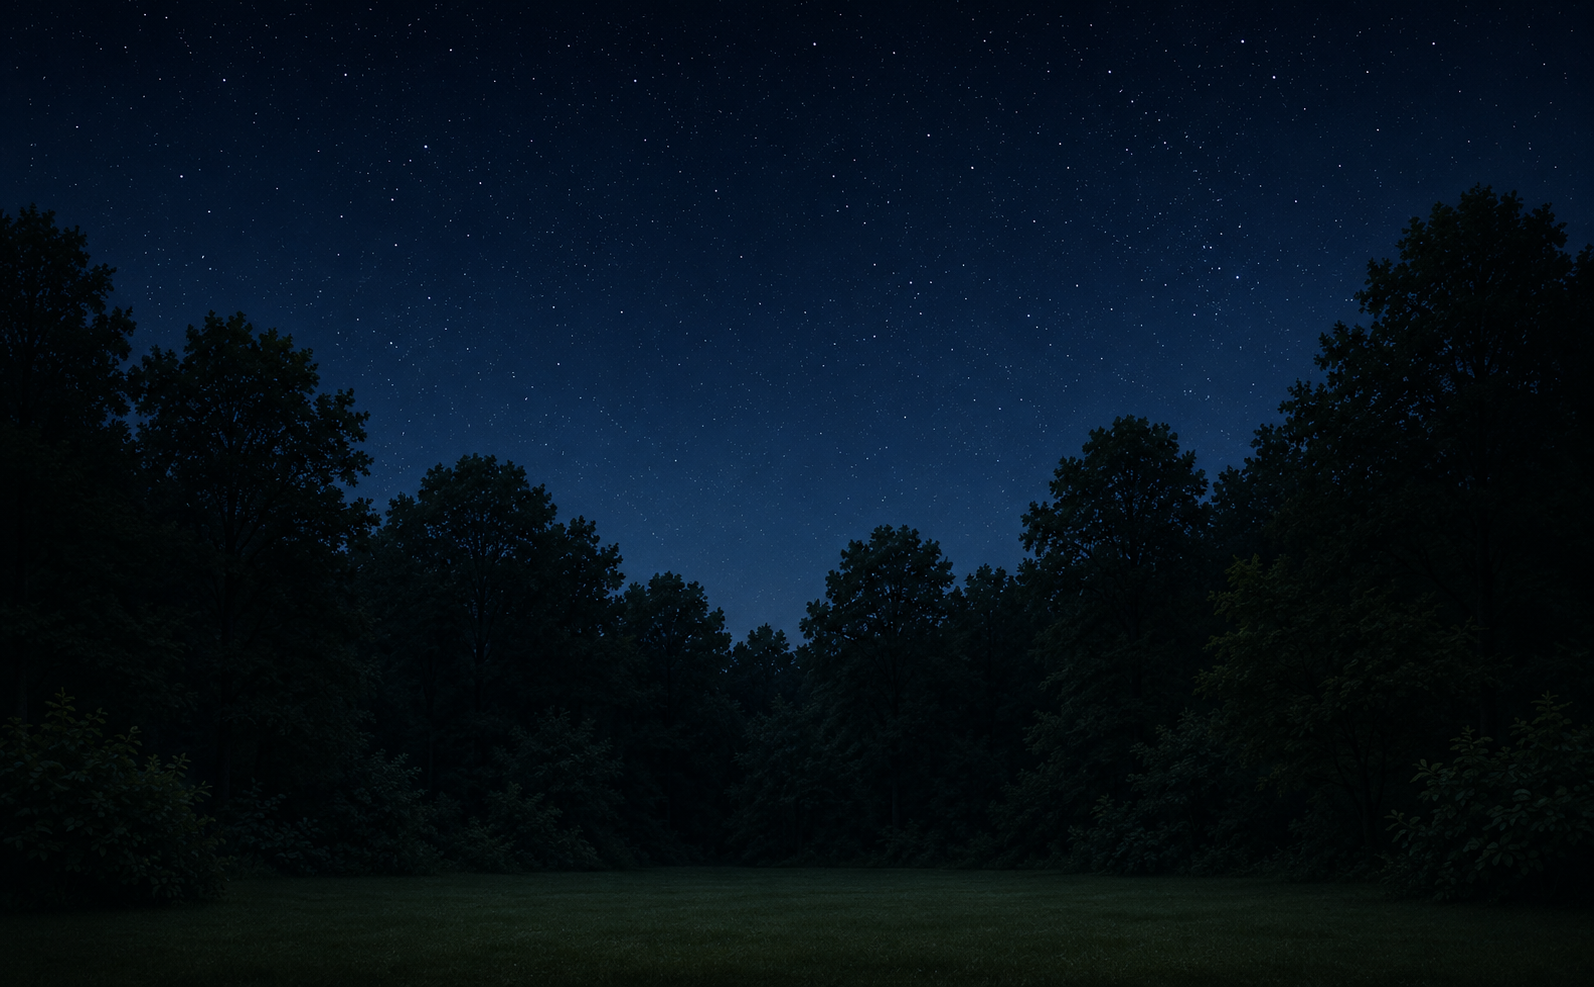
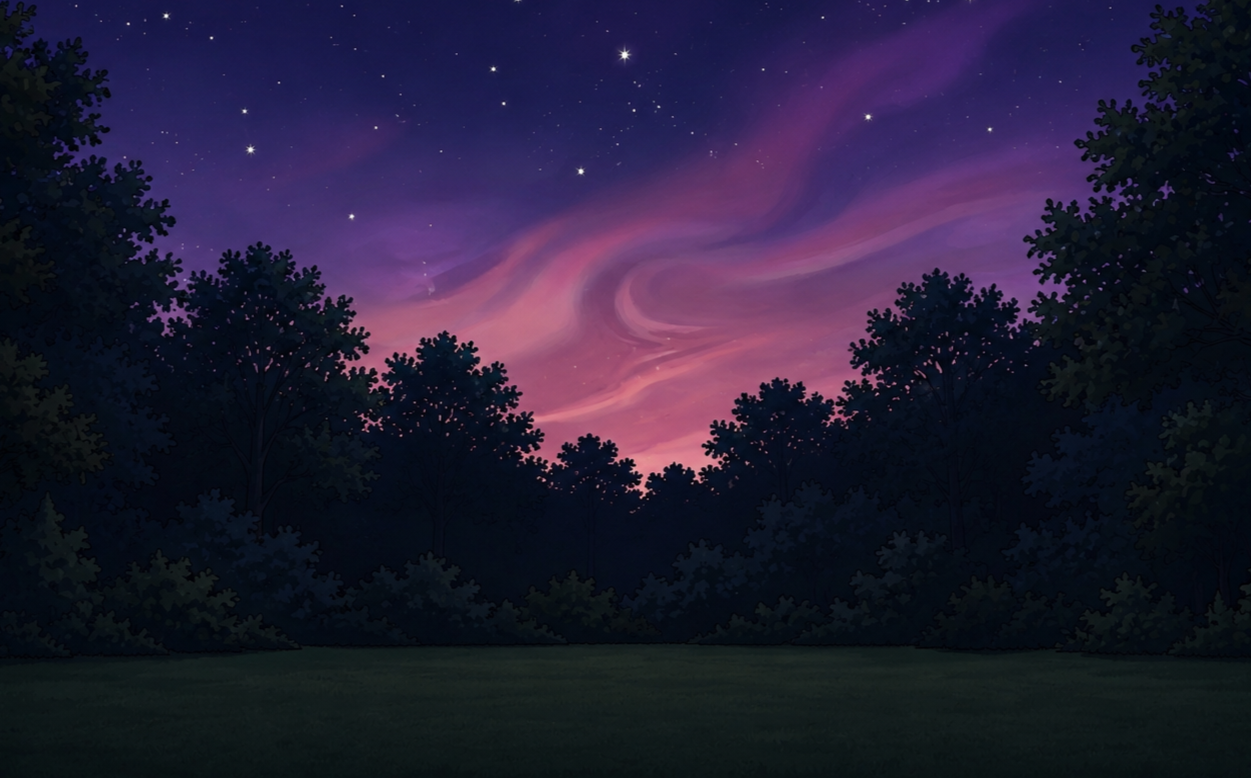
bg test1

diff --git a/frontend/src/App.jsx b/frontend/src/App.jsx
@@ -1,5 +1,11 @@
 import { useState } from "react";
-import { Routes, Route, Navigate, NavLink, useLocation } from "react-router-dom";
+import {
+  Routes,
+  Route,
+  Navigate,
+  NavLink,
+  useLocation,
+} from "react-router-dom";
 import { ThemeProvider, useTheme } from "./pages/ThemeContext";
 import { GameStateProvider, useGame } from "./context/GameStateContext";
 import Home from "./pages/Home";
@@ -21,26 +27,74 @@ const NAV_ITEMS = [
 ];
 
 const ICONS = {
-  home: <><path d="M3 10.5 12 3l9 7.5" /><path d="M5 9.5V21h5v-6h4v6h5V9.5" /></>,
-  check: <><rect x="3" y="4" width="18" height="17" rx="3" /><path d="m8 12 3 3 5-6" /></>,
-  calendar: <><rect x="3" y="5" width="18" height="16" rx="3" /><path d="M8 3v4M16 3v4M3 10h18" /></>,
-  leaf: <><path d="M5 21c0-9 6-15 15-15 0 9-6 15-15 15Z" /><path d="M5 21c3-5 6-8 12-11" /></>,
-  bag: <><path d="M6 8h12l1 13H5L6 8Z" /><path d="M9 8a3 3 0 0 1 6 0" /></>,
+  home: (
+    <>
+      <path d="M3 10.5 12 3l9 7.5" />
+      <path d="M5 9.5V21h5v-6h4v6h5V9.5" />
+    </>
+  ),
+  check: (
+    <>
+      <rect x="3" y="4" width="18" height="17" rx="3" />
+      <path d="m8 12 3 3 5-6" />
+    </>
+  ),
+  calendar: (
+    <>
+      <rect x="3" y="5" width="18" height="16" rx="3" />
+      <path d="M8 3v4M16 3v4M3 10h18" />
+    </>
+  ),
+  leaf: (
+    <>
+      <path d="M5 21c0-9 6-15 15-15 0 9-6 15-15 15Z" />
+      <path d="M5 21c3-5 6-8 12-11" />
+    </>
+  ),
+  bag: (
+    <>
+      <path d="M6 8h12l1 13H5L6 8Z" />
+      <path d="M9 8a3 3 0 0 1 6 0" />
+    </>
+  ),
 };
 
 function Sidebar({ open, onClose }) {
   return (
     <>
-      {open && <div className="fixed inset-0 bg-black/20 backdrop-blur-sm z-30" onClick={onClose} />}
-      <aside className={`fixed top-0 left-0 h-screen w-64 z-40 p-4 transition-transform duration-300 ${open ? "translate-x-0" : "-translate-x-full"}`}>
+      {open && (
+        <div
+          className="fixed inset-0 bg-black/20 backdrop-blur-sm z-30"
+          onClick={onClose}
+        />
+      )}
+      <aside
+        className={`fixed top-0 left-0 h-screen w-64 z-40 p-4 transition-transform duration-300 ${open ? "translate-x-0" : "-translate-x-full"}`}
+      >
         <div className="glass-card h-full rounded-3xl p-5 flex flex-col">
           <div className="flex items-center justify-between mb-8 px-1">
             <div className="flex items-center gap-2">
               <span className="text-2xl">🌿</span>
-              <span className="font-semibold text-lg text-primary">Questify</span>
+              <span className="font-semibold text-lg text-primary">
+                Questify
+              </span>
             </div>
-            <button onClick={onClose} className="p-1 rounded-lg hover:bg-muted transition-colors text-secondary hover:text-primary cursor-pointer">
-              <svg className="w-5 h-5" viewBox="0 0 24 24" fill="none" stroke="currentColor" strokeWidth="2" strokeLinecap="round" strokeLinejoin="round"><path d="M18 6 6 18" /><path d="m6 6 12 12" /></svg>
+            <button
+              onClick={onClose}
+              className="p-1 rounded-lg hover:bg-muted transition-colors text-secondary hover:text-primary cursor-pointer"
+            >
+              <svg
+                className="w-5 h-5"
+                viewBox="0 0 24 24"
+                fill="none"
+                stroke="currentColor"
+                strokeWidth="2"
+                strokeLinecap="round"
+                strokeLinejoin="round"
+              >
+                <path d="M18 6 6 18" />
+                <path d="m6 6 12 12" />
+              </svg>
             </button>
           </div>
           <nav className="flex flex-col gap-1.5 flex-1">
@@ -57,7 +111,17 @@ function Sidebar({ open, onClose }) {
                   }`
                 }
               >
-                <svg className="w-5 h-5 shrink-0" viewBox="0 0 24 24" fill="none" stroke="currentColor" strokeWidth="1.8" strokeLinecap="round" strokeLinejoin="round">{ICONS[item.icon]}</svg>
+                <svg
+                  className="w-5 h-5 shrink-0"
+                  viewBox="0 0 24 24"
+                  fill="none"
+                  stroke="currentColor"
+                  strokeWidth="1.8"
+                  strokeLinecap="round"
+                  strokeLinejoin="round"
+                >
+                  {ICONS[item.icon]}
+                </svg>
                 <span>{item.label}</span>
               </NavLink>
             ))}
@@ -73,9 +137,16 @@ function Layout({ children, homeBg }) {
   const { theme, toggleTheme } = useTheme();
 
   return (
-    <div className={`relative z-10 min-h-screen ${homeBg ? "bg-cover bg-center bg-no-repeat" : ""}`}
-         style={homeBg ? { backgroundImage: `url(${theme === "dark" ? nightBg : dayBg})` } : undefined}>
-      {homeBg && <div className="fixed inset-0 bg-black/30 z-0" />}
+    <div className="relative z-10 min-h-screen">
+      {homeBg && (
+        <>
+          <div
+            className="fixed inset-x-0 top-0 h-screen bg-cover bg-center bg-no-repeat z-0"
+            style={{ backgroundImage: `url(${theme === "dark" ? nightBg : dayBg})` }}
+          />
+          <div className="fixed inset-0 bg-black/30 z-0" />
+        </>
+      )}
 
       <div className="relative z-20">
         <Sidebar open={sidebarOpen} onClose={() => setSidebarOpen(false)} />
@@ -87,11 +158,28 @@ function Layout({ children, homeBg }) {
                 onClick={() => setSidebarOpen(true)}
                 className="md:hidden p-2 rounded-xl hover:bg-muted transition-colors text-secondary hover:text-primary cursor-pointer"
               >
-                <svg className="w-5 h-5" viewBox="0 0 24 24" fill="none" stroke="currentColor" strokeWidth="2" strokeLinecap="round" strokeLinejoin="round"><path d="M4 6h16" /><path d="M4 12h16" /><path d="M4 18h16" /></svg>
+                <svg
+                  className="w-5 h-5"
+                  viewBox="0 0 24 24"
+                  fill="none"
+                  stroke="currentColor"
+                  strokeWidth="2"
+                  strokeLinecap="round"
+                  strokeLinejoin="round"
+                >
+                  <path d="M4 6h16" />
+                  <path d="M4 12h16" />
+                  <path d="M4 18h16" />
+                </svg>
               </button>
-              <NavLink to="/home" className="flex items-center gap-2 select-none">
+              <NavLink
+                to="/home"
+                className="flex items-center gap-2 select-none"
+              >
                 <span className="text-2xl">🌿</span>
-                <span className="font-semibold text-lg tracking-tight text-primary">Questify</span>
+                <span className="font-semibold text-lg tracking-tight text-primary">
+                  Questify
+                </span>
               </NavLink>
             </div>
 
@@ -121,9 +209,16 @@ function Layout({ children, homeBg }) {
               {theme === "light" ? "🌙" : "☀️"}
             </button>
 
-            <NavLink to="/profile" className="flex items-center gap-2 bg-muted rounded-full pl-1.5 pr-3 py-1.5 hover:bg-accent/10 transition-colors">
-              <div className="w-7 h-7 rounded-full bg-gradient-to-br from-accent to-lavender flex items-center justify-center text-xs font-semibold text-white">U</div>
-              <span className="text-sm font-medium text-secondary hidden sm:inline">Profile</span>
+            <NavLink
+              to="/profile"
+              className="flex items-center gap-2 bg-muted rounded-full pl-1.5 pr-3 py-1.5 hover:bg-accent/10 transition-colors"
+            >
+              <div className="w-7 h-7 rounded-full bg-gradient-to-br from-accent to-lavender flex items-center justify-center text-xs font-semibold text-white">
+                U
+              </div>
+              <span className="text-sm font-medium text-secondary hidden sm:inline">
+                Profile
+              </span>
             </NavLink>
           </div>
         </header>

diff --git a/frontend/src/pages/Home.jsx b/frontend/src/pages/Home.jsx
@@ -1,6 +1,9 @@
 import { useState } from "react";
 import { useNavigate } from "react-router-dom";
 import { useGame } from "../context/GameStateContext";
+import { useTheme } from "./ThemeContext";
+import dayGreenhouse from "../assets/daygreenhouse.png";
+import nightGreenhouse from "../assets/nightgreenhouse.png";
 
 import VineBar from "../components/VineBar/VineBar";
 import QuestCard from "../components/QuestCard/QuestCard";
@@ -8,6 +11,7 @@ import Button from "../components/Button/Button";
 
 export default function Home() {
   const navigate = useNavigate();
+  const { theme } = useTheme();
   const {
     quests,
     xp,
@@ -35,7 +39,10 @@ export default function Home() {
   };
 
   return (
-    <div className="flex flex-col min-h-[calc(100vh-7rem)] py-4" style={{ animation: "fadeIn 0.4s ease-out" }}>
+    <div
+      className="flex flex-col min-h-[calc(100vh-7rem)] py-4"
+      style={{ animation: "fadeIn 0.4s ease-out" }}
+    >
       <div className="flex items-center gap-4 mb-20 shrink-0">
         <div className="flex items-center gap-1.5 bg-gradient-to-r from-accent to-accent-hover text-white pl-3.5 pr-4 py-2 rounded-full shrink-0 shadow-[0_2px_8px_rgba(156,175,136,0.3)]">
           <span className="text-lg leading-none">🌱</span>
@@ -51,6 +58,13 @@ export default function Home() {
       </div>
 
       <div className="flex-1 flex flex-col justify-end shrink-0">
+        <div className="flex items-center justify-center pt-4 mb-2">
+          <img
+            src={theme === "dark" ? nightGreenhouse : dayGreenhouse}
+            alt="Greenhouse"
+            className="w-[768px] h-auto"
+          />
+        </div>
         <div className="flex items-center justify-center py-6">
           <p
             onClick={() => navigate("/garden")}
@@ -89,8 +103,12 @@ export default function Home() {
               {dailyQuests.length === 0 ? (
                 <div className="text-center py-10 text-secondary bg-white/10 backdrop-blur-sm rounded-[var(--radius-lg)] border border-white/20 border-dashed">
                   <span className="text-5xl block mb-3">🌻</span>
-                  <p className="font-semibold text-white">All quests complete!</p>
-                  <p className="text-sm text-white/60 mt-1">Add a new one below</p>
+                  <p className="font-semibold text-white">
+                    All quests complete!
+                  </p>
+                  <p className="text-sm text-white/60 mt-1">
+                    Add a new one below
+                  </p>
                 </div>
               ) : (
                 dailyQuests.map((q) => (